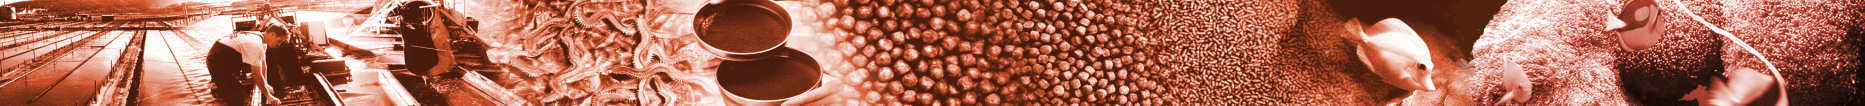
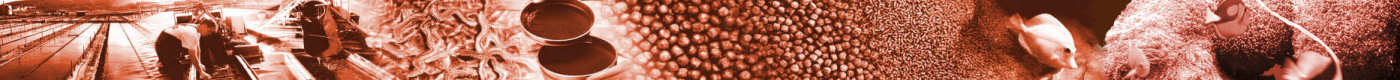
Added site map. Moved cart to new location. Added hover image to menu. Added compliance images.

diff --git a/containers/user/files/styles/sidemenu.css b/containers/user/files/styles/sidemenu.css
@@ -5,7 +5,7 @@
   background-image: -swim-url('global/file/images/menuicon.gif');
   background-position: left center;
   background-repeat: no-repeat;
-  padding-left: 70px;
+  padding-left: 55px;
   padding-top: 20px;
   padding-bottom: 20px;
   margin-top: 10px;
@@ -13,6 +13,7 @@
   border-bottom: 1px solid pagebackground;
   font-size: 1.2em;
   color: seagreen;
+  text-align: left;
 }
 
 #sidemenu a, #sidemenu a:visited, #sidemenu a:hover {
@@ -32,6 +33,7 @@ li.level1 a, li.level1 a:hover, li.level1 a:visited {
 
 #sidemenu li.level1.menufocus {
   border-bottom-color: bordergrey !important;
+  background-image: -swim-url('global/file/images/menuiconhover.gif');
   color: deepred;
 }
 

diff --git a/containers/internal/templates/admin/template.html b/containers/internal/templates/admin/template.html
@@ -16,6 +16,10 @@
     by
     <image alt="Blueprint IT Ltd." src="/internal/file/images/bpit.png" style="width: 326px; height: 60px"/>
   </h1>
+  <div id="compliance">
+    <image alt="Generates valid HTML" title="Generates valid HTML" src="/internal/file/images/valid-html401.png"/>
+    <image alt="Uses valid CSS" title="Uses valid CSS" src="/internal/file/images/vcss.gif"/>
+  </div>
   <block id="admin" src="internal/block/admin"/>
 </div>
 

diff --git a/containers/internal/files/styles/styles.css b/containers/internal/files/styles/styles.css
@@ -104,6 +104,7 @@ table {
 
 .categorytree a, .categorytree a:hover, .categorytree a:visited {
   color: WindowText;
+  text-decoration: none;
 }
 
 .categorytree .selected a, .categorytree .selected a:hover, .categorytree .selected a:visited {

diff --git a/containers/internal/templates/admin/layout/admin.css b/containers/internal/templates/admin/layout/admin.css
@@ -26,6 +26,16 @@ body {
   vertical-align: -18px;
 }
 
+#banner #compliance {
+  position: absolute;
+  bottom: 15px;
+  left: 15px;
+}
+
+#banner #compliance img {
+  float: left;
+}
+
 #admin {
   position: absolute;
   bottom: 15px;

diff --git a/containers/user/files/styles/topmenu.css b/containers/user/files/styles/topmenu.css
@@ -26,9 +26,9 @@
   padding-top: 0px;
   margin: 0;
   height: 100%;
-	font-size: 0.8em;
-	vertical-align: middle;
-	color: white;
+  font-size: 0.9em;
+  vertical-align: middle;
+  color: white;
 }
 
 #mainmenu td.level1.menufocus {

diff --git a/containers/user/files/styles/styles.css b/containers/user/files/styles/styles.css
@@ -1,4 +1,4 @@
-#define bannerheight 105
+#define bannerheight 80
 #define menuheight 25
 #define footerheight 192
 #define bannermenugap 3

diff --git a/containers/internal/pages/pagedetails/blocks/mainpane/details.php b/containers/internal/pages/pagedetails/blocks/mainpane/details.php
@@ -91,11 +91,13 @@ $select->resource=$request->resource;
         </select>
 </form>
 <?
-$revert = new Request();
-$revert->query['version']=$page->version;
-$revert->method='revert';
-$revert->resource=$request->resource;
-$revert->nested=$request;
+if (($_USER->canWrite($page))&&($page->prefs->getPref("page.editable")!==false))
+{
+  $revert = new Request();
+  $revert->query['version']=$page->version;
+  $revert->method='revert';
+  $revert->resource=$request->resource;
+  $revert->nested=$request;
 ?>
 <form style="display: inline" method="POST" action="<?= $revert->encodePath() ?>">
 <?= $revert->getFormVars() ?>
@@ -106,6 +108,9 @@ if ($page->isCurrentVersion())
 }
 ?>>
 </form>
+<?
+}
+?>
 </td>
 </tr>
 <tr>

diff --git a/containers/internal/blocks/tabpanel/block.php b/containers/internal/blocks/tabpanel/block.php
@@ -41,7 +41,7 @@ if (true)
 ?>
   <td class="spacer"></td>
 <?
-  display_tab($type,'cart',$prefs->getPref('url.base').'/cart/admin','E-commerce');
+  display_tab($type,'cart',$prefs->getPref('url.base').'/onlineshop/admin','E-commerce');
 }
 
 if ($_USER->hasPermission('users',PERMISSION_READ))
